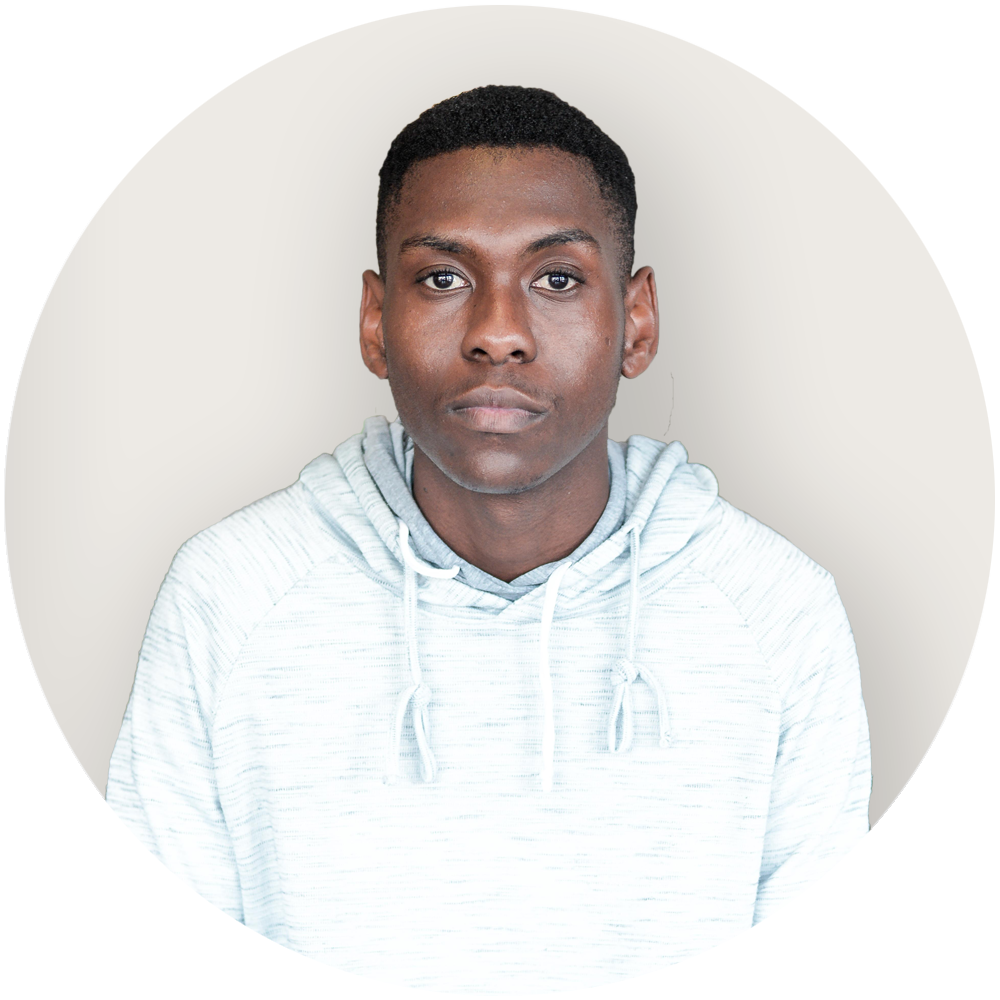
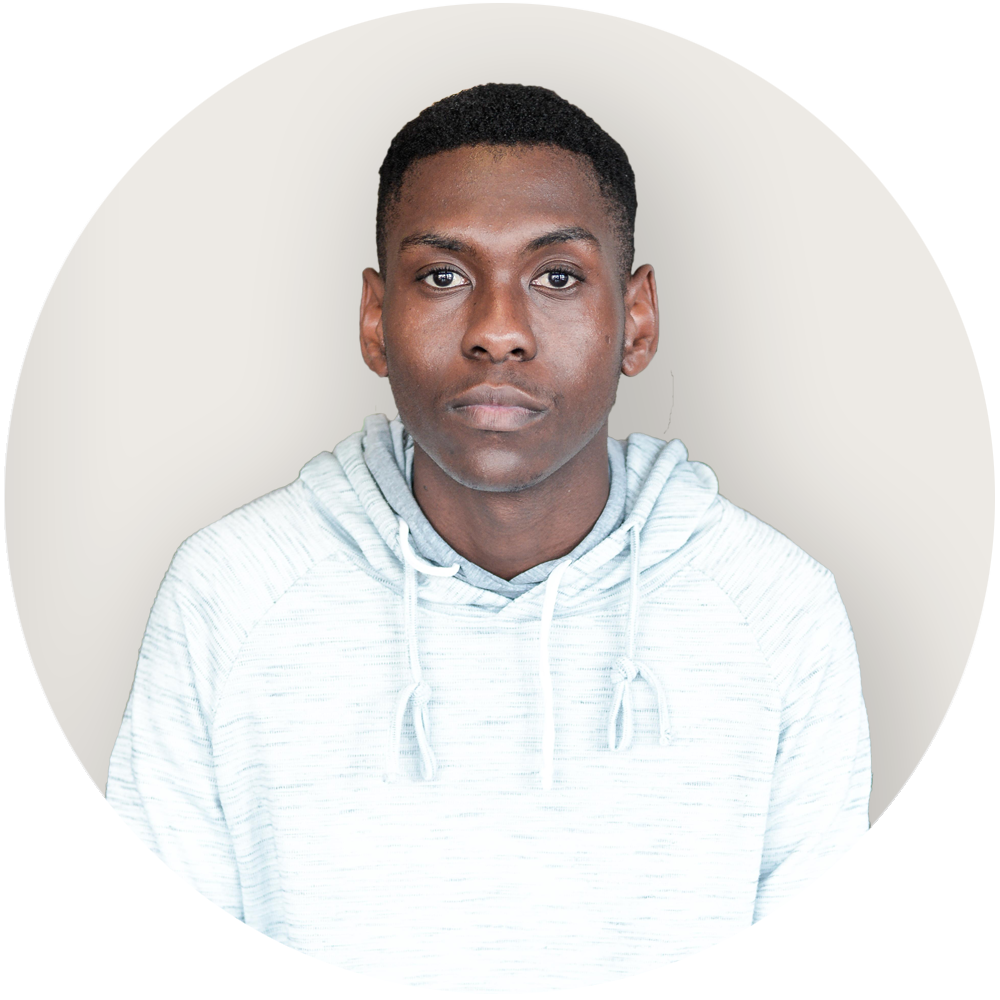
profile image animation and target

diff --git a/index.html b/index.html
@@ -79,12 +79,13 @@
 		</div>
 
 		<div class="profile-pic">
-			<img src="images/about-image.png">
+			<a href="images/about-image.png">
+				<img src="images/about-image.png">
+			</a>
 		</div>
 
 		<article>
 			<p>I'm a fullstack web developer who is fascinated by the architecture of designing and building web layouts and web applications. I have experience in creating websites for small businesses, developing useful web applications using new and relevent technologies.</p>
-
 			<p>Based in Johannesburg, currently in training through a learnership program with Umuzi Acardemy, acquiring skills that enables the ability to develop high value products. </p>
 		</article>
 

diff --git a/css/screen-layout-large.css b/css/screen-layout-large.css
@@ -190,17 +190,21 @@ span.web-developer{
 	align-self: center;
 }
 
-.profile-pic img{
+.profile-pic a img{
 	width: 200px;
+	transition: all 0.2s ease-in;
+	-webkit-transition: all 0.2s ease-in;
+	-moz-transition: all 0.2s ease-in;
+	-o-transition: all 0.2s ease-in;
 }
 
-.profile-pic img:hover{
-	position: absolute;
-	top: 105vh;
-	left: 220px;
-	width: 500px;
-	z-index: 3;
+.profile-pic a img:hover{
+	transform: scale(1.1);
+	cursor: pointer;
 }
+
+
+
 
 
 
